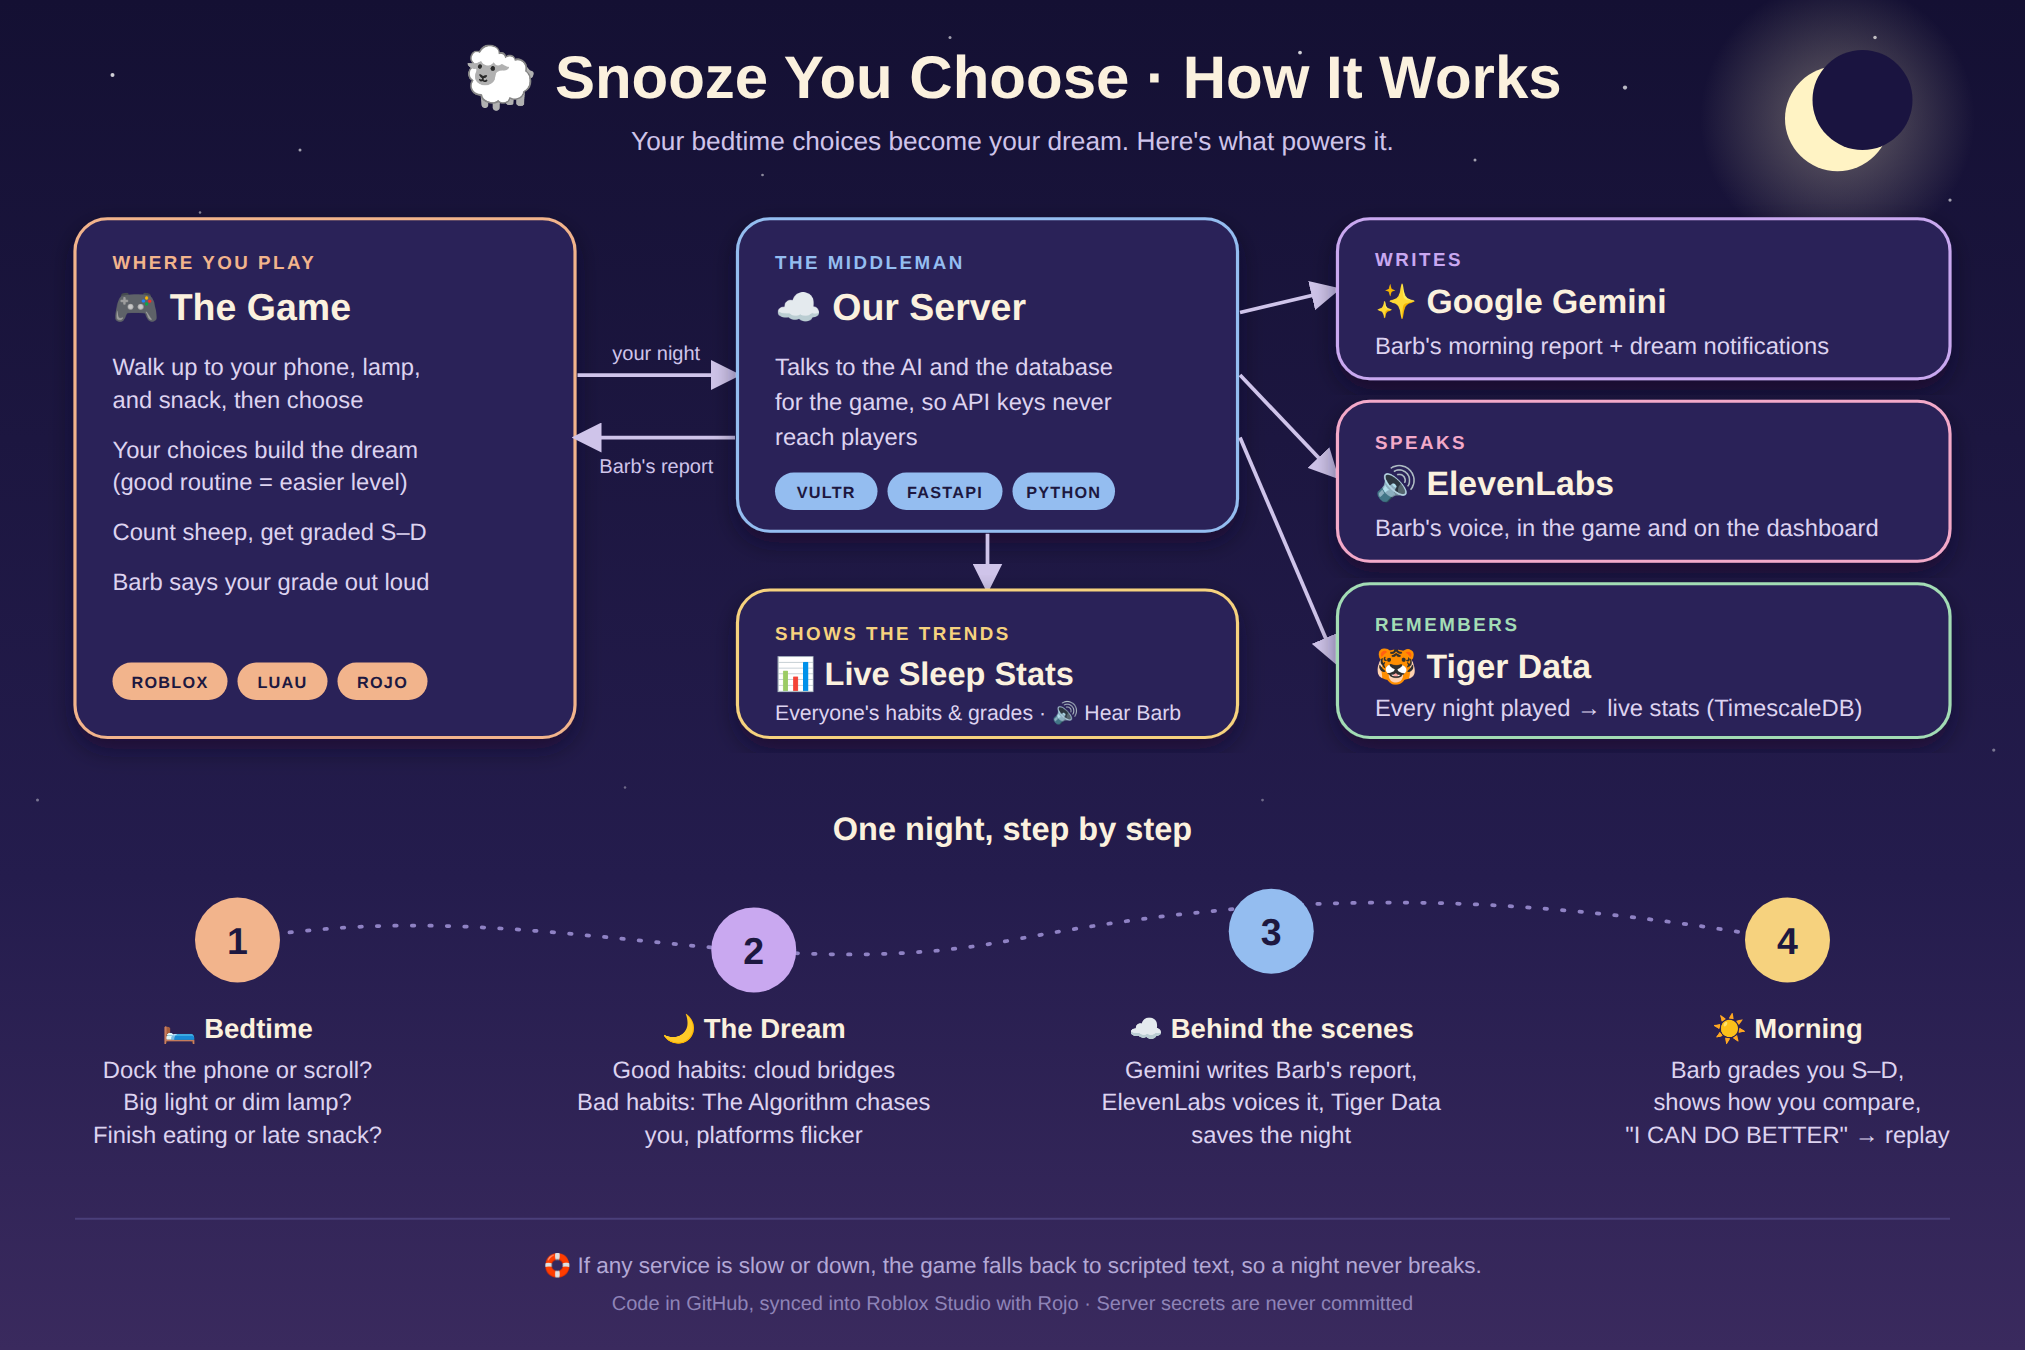
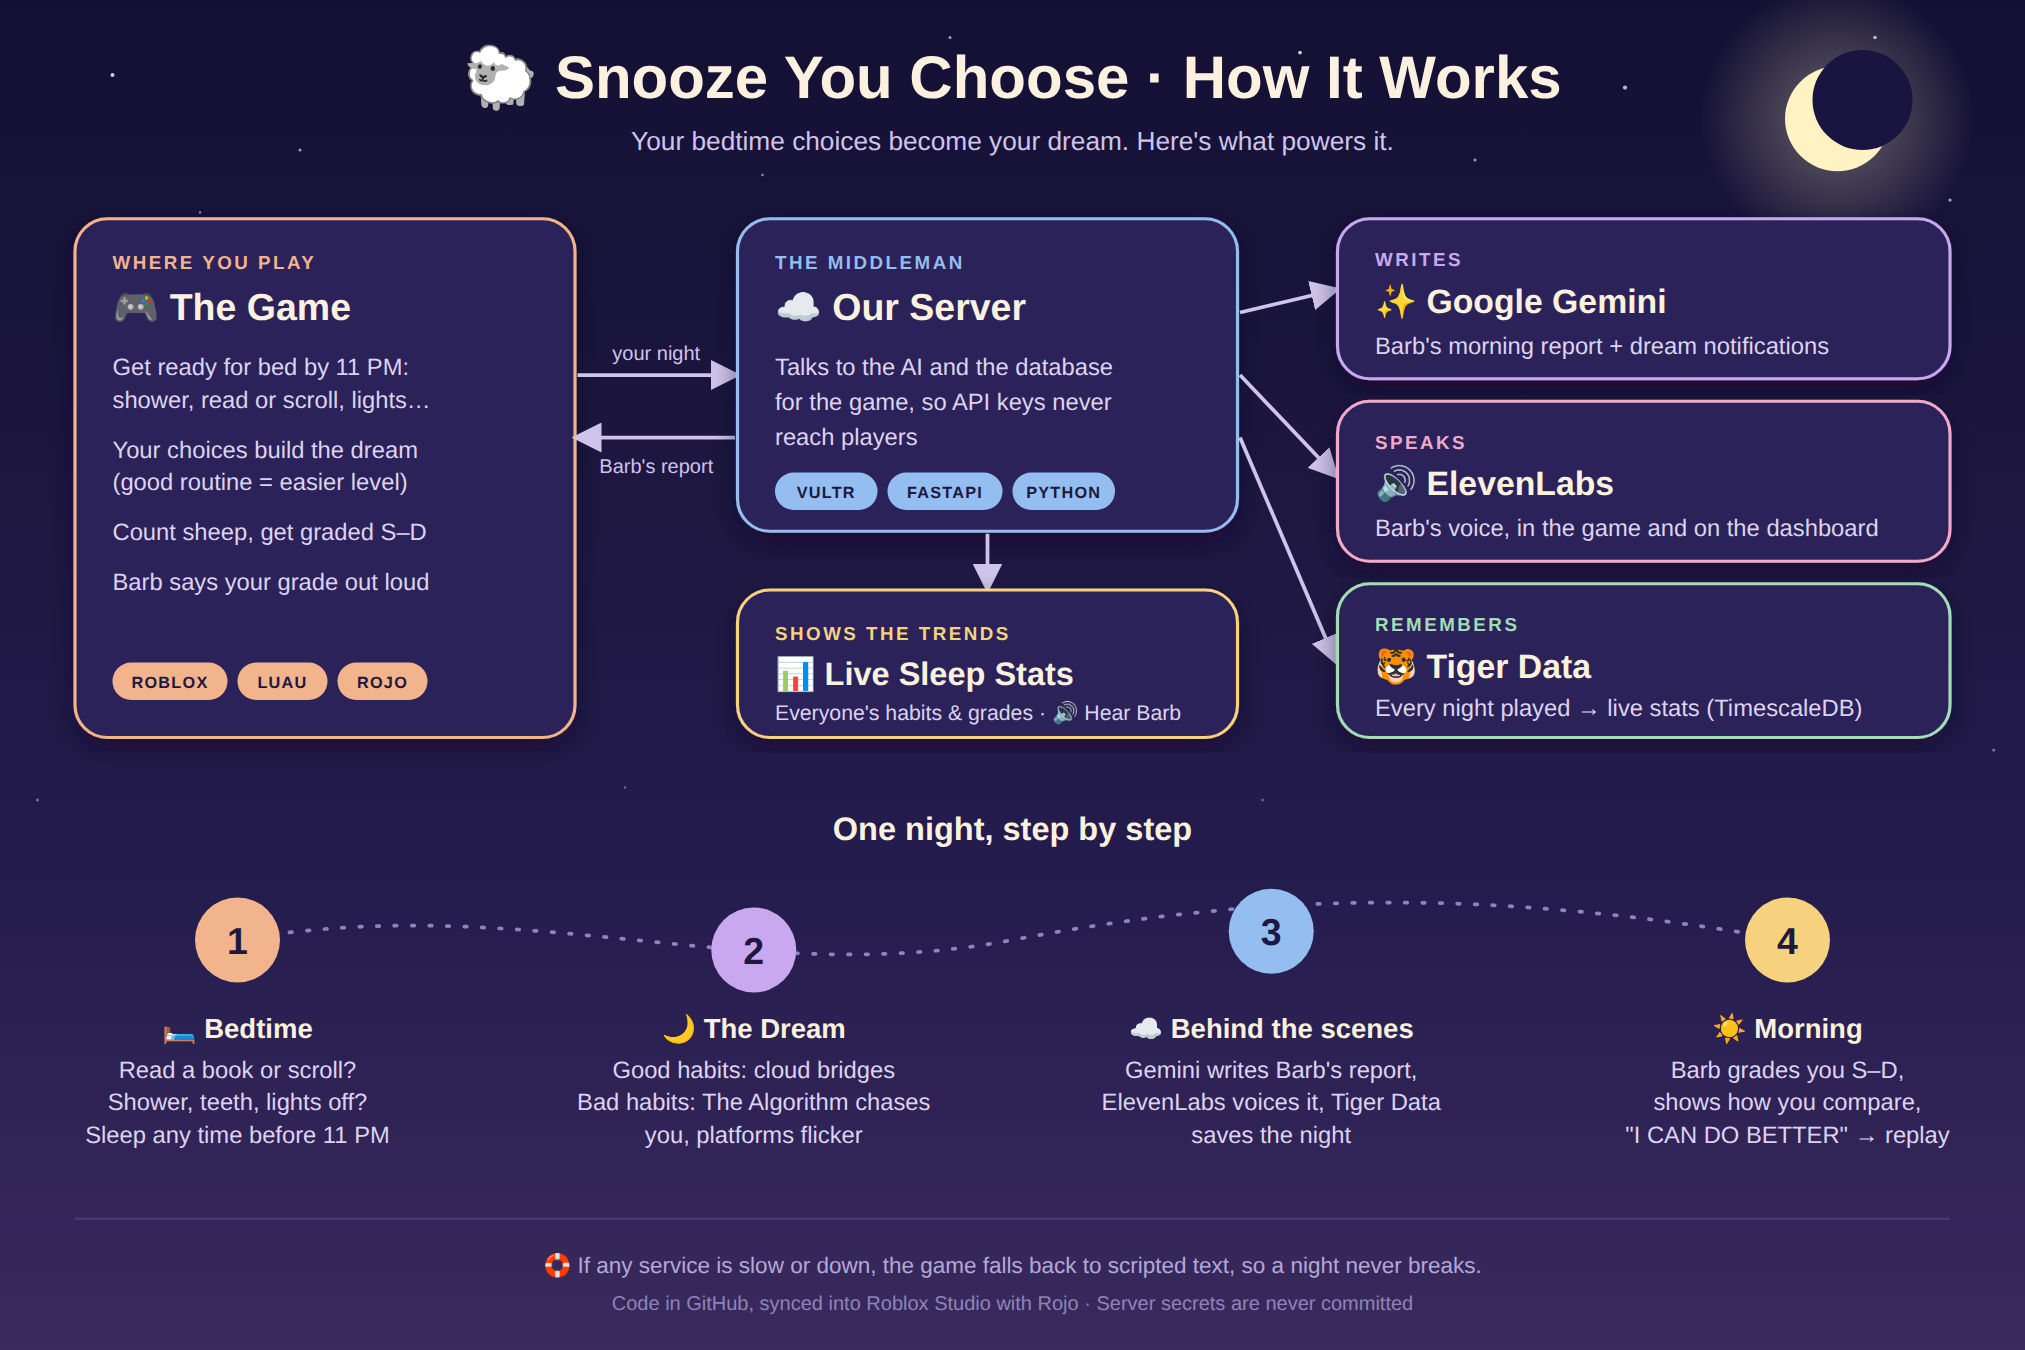
Docs: match the new bedtime activities (reading, shower, 11 PM clock)
Updates the Devpost story and How It Works diagram, and removes the old
Bedtime Rush draft that no longer matches the game.

Claude-Session: https://claude.ai/code/session_01Pe7MNwYx4D7FJqxLATiH3d

Changed region(s): [[0.0311, 0.7778, 0.1867, 0.8711], [0.0622, 0.2489, 0.2178, 0.3111]]

diff --git a/docs/DEVPOST_STORY.md b/docs/DEVPOST_STORY.md
@@ -4,11 +4,14 @@ Everyone knows the sleep advice: put the phone down, dim the lights, don't eat a
 ## What it does
 **Snooze You Choose** is a Roblox game where your bedtime choices become your dream.
 
-🛏 **Bedtime.** You're in a cozy dorm room at night. Walk up to your phone, the lamp, and your snack and decide: dock the phone or keep scrolling? Big light or dim lamp? Finish eating or have a late heavy meal? You can't sleep until you've handled the essentials.
+🛏 **Bedtime (10:00 to 11:00 PM).** You have one in-game hour (five real minutes) in a cozy dorm room to get ready for bed, and you can go to sleep any time. Walk around and try the activities:
+- 📖 **Read or scroll?** Curl up in the reading nook. **Read a book** and flip through short chapters of real CDC sleep facts, each with a quick question. Or **scroll on your phone** through an endless feed of posts (the last one says "Saving my progress… good night, everyone").
+- 🚿 **Shower mini-game.** Step into the shower, drag the temperature slider until the water is "just right", and wipe the fog off the mirror.
+- 💡🍽🔕🪟❄🪥 **Quick choices:** main light on or off, a late heavy meal, Do Not Disturb, curtains, room temperature, and brushing your teeth.
 
 🌙 **The dream is built from your choices.**
 - **Good routine:** cloud bridges fill the gaps, your legs feel fast, and the night sky is calm.
-- **Kept scrolling:** **The Algorithm**, a giant phone with googly eyes, swoops in and chases you ("Just one more video!"). If it catches you, you're frozen watching a 45-minute video essay. Notifications written by Gemini knock you off the path.
+- **Scrolled instead of reading:** **The Algorithm**, a giant phone with googly eyes, swoops in and chases you ("Just one more video!"). If it catches you, you're frozen watching a 45-minute video essay. Notifications written by Gemini knock you off the path.
 - **Bright lights:** the dream glares and platforms blink out under your feet.
 - **Late heavy meal:** you're sluggish and the path won't sit still.
 - **Several bad habits = sleep debt:** microsleep blinks, whispers, and shadow figures in the corner of your eye.
@@ -26,7 +29,7 @@ It gets harder, but never stressful: checkpoints catch you, and a "wake up" butt
 - **Google Gemini** writes Barb's personalized morning report and the dream's phone notifications. All AI text goes through Roblox's text filter, and the game falls back to scripted text after 4 seconds, so it never hangs.
 - **ElevenLabs** gives Barb her voice. Her grade lines were recorded with ElevenLabs text-to-speech and play in-game, and the live dashboard has a **🔊 Hear Barb** button that reads the latest Gemini-written report in her voice (cached per report to save credits).
 - **Python FastAPI backend on a Vultr server** (Ubuntu, systemd, Caddy for HTTPS) brokers every AI call, so no API key ever touches the game.
-- **Tiger Data (TimescaleDB)** stores every night played in a hypertable, with a continuous aggregate that rolls stats up by the hour. That powers the community line on the morning report and a **live "Sleep Stats" page** (Chart.js) that shows how everyone is sleeping: doomscroll rate, grades, "phone docked vs. kept scrolling" dream stability, and a Sleep Sensei leaderboard. Player IDs are stored only as salted hashes.
+- **Tiger Data (TimescaleDB)** stores every night played in a hypertable, with a continuous aggregate that rolls stats up by the hour. That powers the community line on the morning report and a **live "Sleep Stats" page** (Chart.js) that shows how everyone is sleeping: which bedtime activities players actually do (and skip: the shower is not popular), reading vs. scrolling and its effect on dream stability, grades, and a Sleep Sensei leaderboard. Player IDs are stored only as salted hashes.
 
 ## Challenges we ran into
 - **Hard but not stressful.** Our first sleep-deprivation effect blurred the screen so much the game was unplayable. We tuned every effect (blur, flicker timing, chase speed) until a bad night felt worse without feeling unfair.
@@ -35,7 +38,8 @@ It gets harder, but never stressful: checkpoints catch you, and a "wake up" butt
 - **A whole team, one Roblox place.** Rojo and Git let us merge code, but we still had to coordinate who owned the room, the dream, and the backend.
 
 ## Accomplishments that we're proud of
-- The choices *are* the level. There's no quiz at the end; you feel the consequences.
+- The choices *are* the level: you feel the consequences instead of reading a checklist.
+- Players learn real CDC sleep facts inside the game, in a book they actually want to read.
 - A complete loop in about two minutes: bedtime → dream → morning → replay.
 - A real, deployed stack behind a Roblox game: Gemini, ElevenLabs, Tiger Data, and Vultr all working live.
 - Barb.
